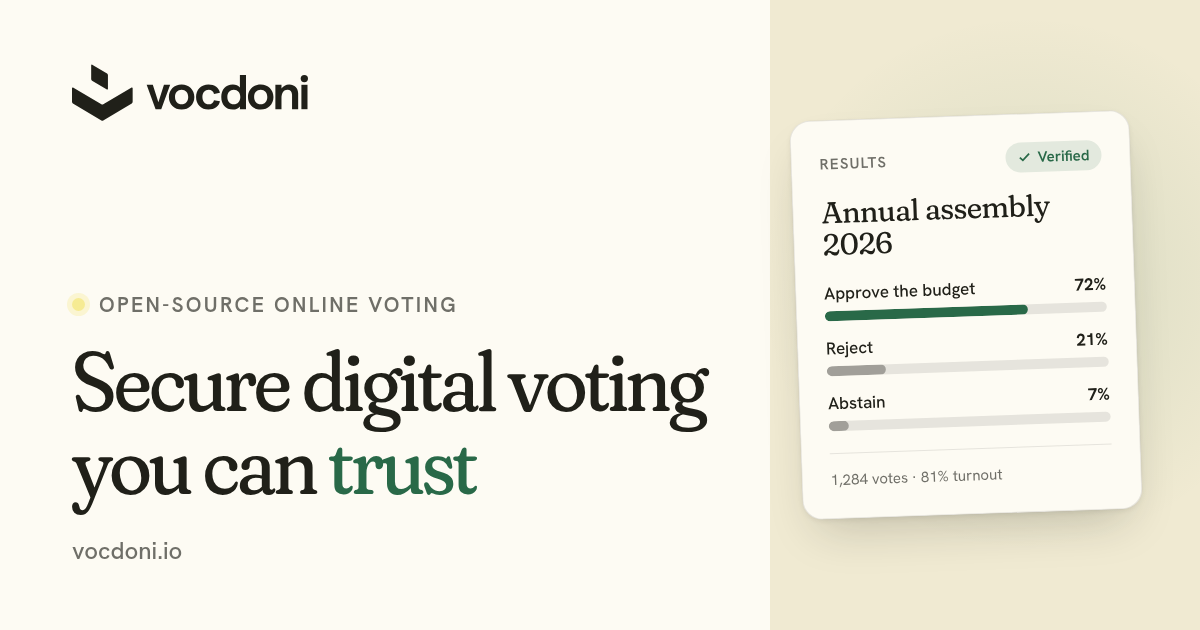
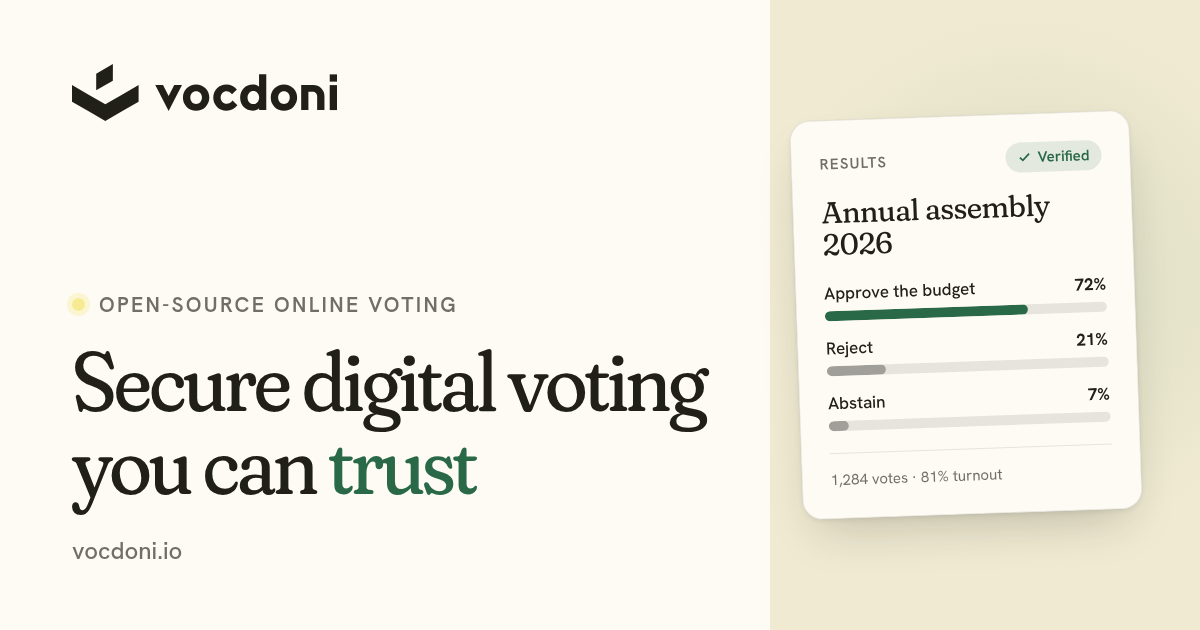
fix(brand): replace the old mirrored mark in the public logotype SVGs
Both public/images logotypes carried the previous mark, with the ballot leaning left. They are regenerated from
components/Logo.tsx, which fixes the README, the ARD manifest, future blog covers and the default share card.

Changed region(s): [[0.0617, 0.0905, 0.2775, 0.181]]

diff --git a/scripts/og-image/template.html b/scripts/og-image/template.html
@@ -65,7 +65,7 @@
       }
       /* the logo file is white; the mask paints it in ink */
       .logo {
-        width: 236px;
+        width: 265px;
         height: 57px;
         background: var(--ink);
         -webkit-mask: url(../../public/images/vocdoni_logotype_full_blank.svg) left center / contain no-repeat;
